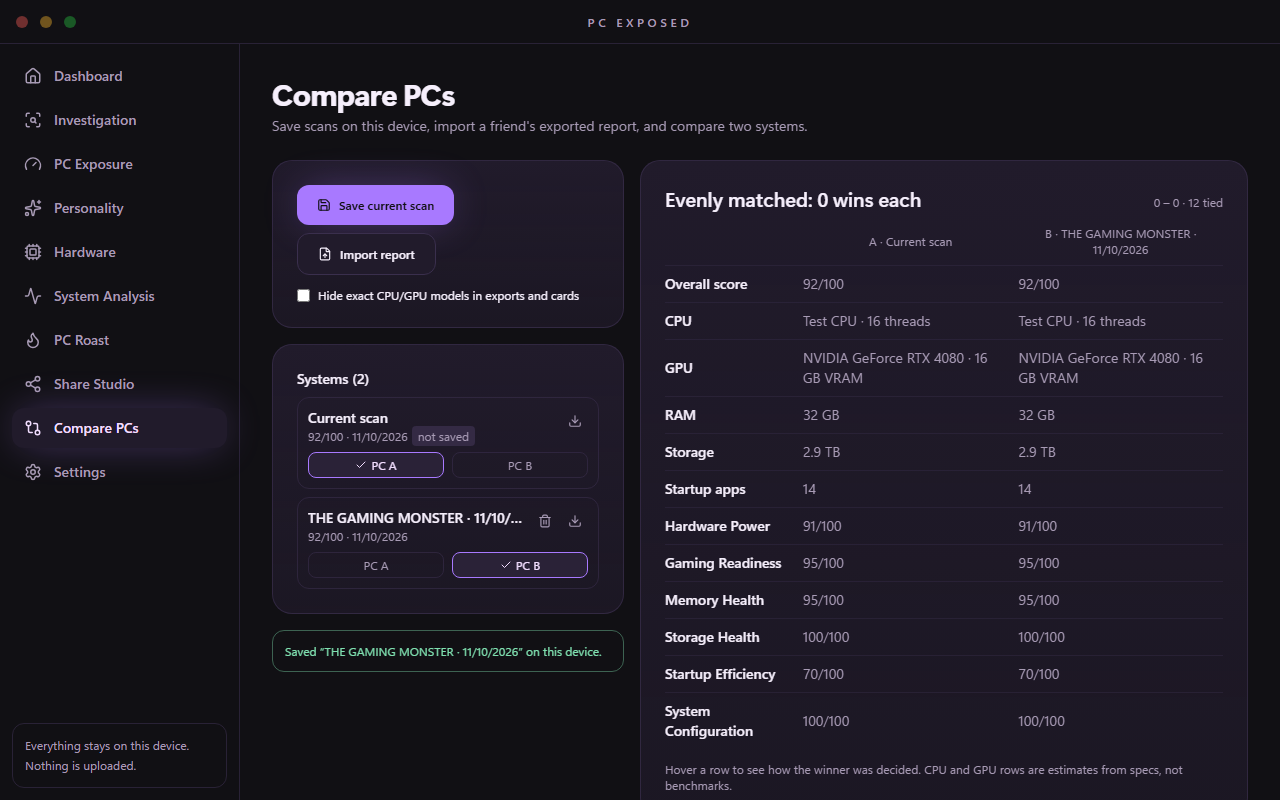
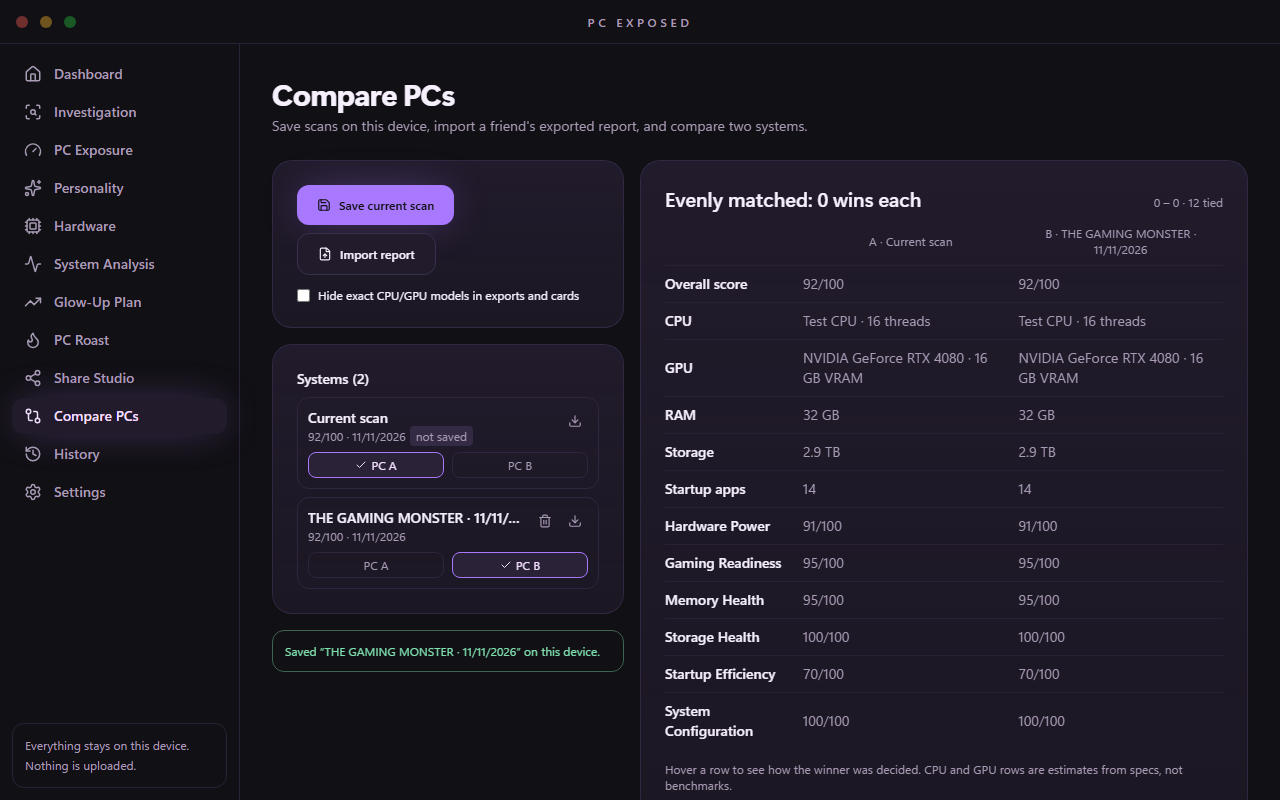
Release v0.2.0-beta.1: version, changelog, release notes, screenshots
- Version 0.2.0-beta.1 in package.json, Cargo.toml/lock, tauri.conf.json.
- CHANGELOG, docs/releases/v0.2.0-beta.1.md, README, PRIVACY (scan history),
  ARCHITECTURE, RELEASING, SECURITY_REVIEW delta.
- Screenshots regenerated from synthetic demo data, plus the update gallery
  in docs/screenshots/updates/v0.2.0-beta.1/.

diff --git a/src-tauri/src/app_info.rs b/src-tauri/src/app_info.rs
@@ -35,7 +35,7 @@ mod tests {
     fn reports_package_version() {
         let info = build_app_info();
         assert_eq!(info.name, "PC EXPOSED");
-        assert_eq!(info.version, "0.1.0-beta.1");
+        assert_eq!(info.version, "0.2.0-beta.1");
         assert_eq!(info.license, "MIT");
     }
 

diff --git a/README.md b/README.md
@@ -6,7 +6,9 @@ PC EXPOSED is a free, open-source Windows desktop app. It investigates your PC *
 scores it with explainable, evidence-based rules, gives it a personality, writes a roast based on what it
 really found, and exports share-ready image cards. Nothing is uploaded. Ever.
 
-> **Beta (`v0.1.0-beta.1`).** Everything below works and is tested, but see [Known limitations](#known-limitations).
+> **Beta (`v0.2.0-beta.1`).** Everything below works and is tested, but see [Known limitations](#known-limitations).
+> New in this release: the **Glow-Up Plan**, opt-in **scan history**, and **Copy specs**
+> ([release notes](docs/releases/v0.2.0-beta.1.md)).
 
 ![Dashboard with last-scan summary](docs/screenshots/01-dashboard.png)
 
@@ -20,10 +22,20 @@ really found, and exports share-ready image cards. Nothing is uploaded. Ever.
 | 📊 **Scores honestly** | Six 0–100 scores (Hardware, Memory, Storage, Startup, Configuration, Gaming Readiness), each with reasons, a confidence level and a caveat. Missing data is *Unavailable*, never zero. |
 | 🧭 **Separates evidence** | Bottleneck findings are kept apart as *measured*, *potential*, *hardware pairing* and *insufficient evidence*. It never claims a benchmark it didn't run. |
 | 🎭 **Assigns a personality** | 12 personalities (THE GAMING MONSTER, THE SLEEPING GIANT, THE CHAOS ENGINE…) chosen from real findings, with the rule shown. |
+| 📈 **Glow-Up Plan** | Concrete fixes and upgrades ranked by how many points they would add, with steps. Projections re-run the same scoring rules, so they never disagree with your score. |
 | 🔥 **Roasts your PC** | 101 original, conditional lines. A Discord joke only appears if Discord really starts with Windows. No repeats. |
 | 🎁 **PC Wrapped** | A story-style recap of your PC. |
 | 🖼 **Share cards** | 5 templates × 2 sizes (1080×1350, 1920×1080), live preview, **Privacy mode**, optional watermark, saved by you. |
 | ⚖ **Compare PCs** | Save scans locally, import a friend's exported report, compare two systems, export a comparison card. |
+| 🕒 **History** (opt-in) | Off by default. When on, keeps a summary of each scan on this device and charts your score over time. |
+| 📋 **Copy specs** | A plain-text spec sheet for forum posts and "what should I upgrade?" threads. |
+
+### Glow-Up Plan and History
+
+<p>
+  <img src="docs/screenshots/10-glow-up-plan.png" width="49%" alt="Glow-Up Plan for a struggling laptop: free fixes and upgrades with projected scores">
+  <img src="docs/screenshots/11-history.png" width="49%" alt="Scan history with a score-over-time chart and changes between scans">
+</p>
 
 <p>
   <img src="docs/screenshots/02-results.png" width="49%" alt="Results with score ring and radar chart">
@@ -55,6 +67,7 @@ really found, and exports share-ready image cards. Nothing is uploaded. Ever.
 - The interface can do nothing but move and close the window. Saving a file goes through a validated native
   command, and **you** pick where it is written.
 - Imported report files are treated as hostile: validated against a whitelist, size- and range-limited, never executed.
+- Scan history is **off by default**; when on, it keeps only the report summary (no app or process names).
 - Delete everything it stores in **Settings → Local data**.
 
 Read exactly what a scan reads (and never reads) in [docs/PRIVACY.md](docs/PRIVACY.md), and the evidence behind
@@ -89,8 +102,9 @@ npm run tauri dev        # desktop app with hot reload
 npm run tauri build      # optimized app + installer in src-tauri/target/release/
 ```
 
-The browser-only preview (`npm run dev`, then add `?demo=1` to the URL) loads clearly labelled synthetic data;
-real scans need the desktop app.
+The browser-only preview (`npm run dev`, then add `?demo=1` to the URL, or `?demo=budget` for a struggling
+laptop) loads clearly labelled synthetic data; real scans need the desktop app. Regenerate the README
+screenshots and the per-release gallery in `docs/screenshots/updates/` with `$env:SCREENSHOTS=1; npm run screenshots`.
 
 ### Tests
 
@@ -124,7 +138,8 @@ clipping, truncation and overlap. See [docs/ARCHITECTURE.md](docs/ARCHITECTURE.m
 - Laptops, HDD systems and Windows 10 are covered by tests and fixtures but have had little real-hardware testing:
   please [open an issue](../../issues/new/choose) if a reading looks wrong.
 - Not yet tested with a real screen reader (NVDA/Narrator) or Windows High Contrast mode.
-- The app icon is a placeholder.
+- Glow-Up Plan projections show how the *score* would move, not frame rates or boot times. The Windows 11
+  suggestion does not check eligibility.
 - No MSI installer yet (the format rejects pre-release versions); the NSIS installer is provided.
 
 ## Contributing

diff --git a/docs/releases/v0.2.0-beta.1.md b/docs/releases/v0.2.0-beta.1.md
@@ -1,0 +1,98 @@
+# PC EXPOSED v0.2.0-beta.1
+
+**From "here's what's wrong" to "here's what to do about it."**
+
+v0.1 told you your PC's score, personality and sins. v0.2 tells you which changes would actually raise that
+score and by how much, and (if you turn it on) shows whether they worked.
+
+![Glow-Up Plan for a struggling laptop (synthetic demo data)](../screenshots/updates/v0.2.0-beta.1/glow-up-plan.png)
+
+*All screenshots use clearly labelled synthetic demo data, not a real machine.*
+
+## What's new
+
+### Glow-Up Plan
+
+A new screen that ranks concrete changes by how many points they would add to your score:
+
+- **Free fixes:** trim startup apps (it lists the ones it found), free a specific amount of space on the
+  system drive, restart after weeks of uptime, close memory-heavy apps, uninstall apps you don't use.
+- **Upgrades:** the next RAM size, moving Windows to an SSD, Windows 11, a GPU one class up.
+
+Every card shows the projected overall score, which categories move (e.g. *Startup Efficiency 30 → 100*),
+how to do it in plain steps, and its limits. The header shows where *all free fixes together* and
+*everything together* would land you.
+
+**Why you can trust the numbers:** a projection isn't a separate set of guesses. It takes your measured
+numbers, changes one thing (say, 26 startup apps → 5) and runs the **same scoring rules** again. Projections
+show how the score would move, not frame rates or boot times, and the app says so.
+
+Open it from the sidebar, from the Dashboard, or from the hint on **PC Exposure**.
+
+### Scan history (opt-in)
+
+Turn it on from the Dashboard, the History screen or *Settings → Local data*. Each real scan is then kept
+as a small summary (the same summary as an exported report: hardware classes and scores, **no app, process
+or startup-app names**), up to 60.
+
+- A score-over-time chart, and per-scan changes in score, startup apps, free space, RAM, installed apps and personality.
+- The Dashboard shows *"Up 6 since your scan on 2 Oct"* and, after you restart the app, your last recorded scan.
+- Delete a single scan, all history, or everything the app stores.
+
+It is **off by default**, so v0.1's promise holds: nothing about a scan is stored until you choose.
+
+![History timeline (synthetic demo data)](../screenshots/updates/v0.2.0-beta.1/history-timeline.png)
+
+### Copy specs
+
+**Hardware → Copy specs** puts a plain-text spec sheet on your clipboard, ready for a forum post or a
+"what should I upgrade?" thread. [Example](../screenshots/updates/v0.2.0-beta.1/spec-sheet-example.txt):
+
+```
+CPU: Test CPU (8C/16T, 4.00 GHz)
+GPU: NVIDIA GeForce RTX 4080 (16 GB)
+RAM: 32 GB
+Storage: C: 1000 GB SSD (42% free), D: 2.0 TB SSD (45% free)
+OS: Windows 11 Pro 24H2 (build 26100.1)
+Form factor: desktop (no battery)
+```
+
+### A real icon
+
+The placeholder "!" is replaced by the PC EXPOSED eye.
+
+## Fixes
+
+- Exported reports always said `appVersion: 0.1.0-beta.1`; the version is now injected from the build.
+- Saved reports are dated by when the scan ran, and the same scan can't be saved twice.
+- Laptop integrated GPUs like **Radeon 890M / 780M** and **Intel Arc 140V / 130T** are now recognized, so
+  those PCs get Hardware Power and Gaming Readiness scores instead of "not recognized".
+- PC Wrapped no longer double-advances when you press Space on a button.
+- Compare PCs: a rejected import can be retried with the same file.
+- Share Studio: fast template switching can no longer leave a stale card in the preview.
+- The installed app ignores F5/Ctrl+R (which threw away your scan) and the browser right-click menu.
+- No more stray focus box around screen titles.
+
+## Upgrading
+
+Install over v0.1.0-beta.1. Saved reports, settings and card preferences are kept, and the report file
+format is unchanged (still version 1), so reports exported by either version import into the other.
+
+## Verify your download
+
+Download `PC.EXPOSED_0.2.0-beta.1_x64-setup.exe` and `SHA256SUMS.txt`, then:
+
+```powershell
+Get-FileHash .\PC.EXPOSED_0.2.0-beta.1_x64-setup.exe -Algorithm SHA256
+```
+
+The installer is per-user (no administrator rights) and **not code-signed yet**, so SmartScreen may warn.
+
+## Known limitations
+
+- Glow-Up Plan projections are score projections, not performance predictions. The Windows 11 suggestion
+  does not check eligibility (TPM 2.0, supported CPU).
+- GPU utilization/temperature and SMART drive health are still not read.
+- English only; Windows 10/11 x64 only; installers unsigned; no MSI for pre-releases.
+
+Full list of changes: `CHANGELOG.md`.

diff --git a/CHANGELOG.md b/CHANGELOG.md
@@ -3,7 +3,56 @@
 All notable changes are documented here. The format follows [Keep a Changelog](https://keepachangelog.com/en/1.1.0/)
 and the project uses [Semantic Versioning](https://semver.org/).
 
-## [0.1.0-beta.1]: unreleased
+## [0.2.0-beta.1]: 2026-11-11
+
+PC EXPOSED now tells you what to do about what it finds, and can show your PC improving over time.
+Release notes: [docs/releases/v0.2.0-beta.1.md](docs/releases/v0.2.0-beta.1.md).
+
+### Added
+- **Glow-Up Plan** (new screen): concrete changes ranked by how much they would raise your score, split into
+  *free fixes* (trim startup apps, free system-drive space, restart, close memory-heavy apps, uninstall unused
+  apps) and *upgrades* (RAM, SSD, Windows 11, a GPU one class up). Each shows the projected overall and
+  per-category scores, how to do it, and its limits. Projections re-run the real scoring rules on the changed
+  numbers, so they can never disagree with the score. Shows combined "all free fixes" and "everything" totals.
+  PC Exposure links to it when free fixes would help.
+- **Scan history** (new screen, opt-in, off by default): keeps a summary of each real scan on this device
+  (up to 60) with a score-over-time chart and what changed between scans (score, startup apps, free space,
+  RAM, apps, personality). Delete one scan or all of it. The Dashboard shows "Up N since your scan on …" and,
+  after a restart, your last recorded scan.
+- **Copy specs** on the Hardware screen: a plain-text spec sheet (CPU, GPU, RAM, storage, Windows, form factor)
+  ready to paste into a forum or chat. No app, process or network names.
+- New app icon (the PC EXPOSED eye), replacing the placeholder.
+
+### Fixed
+- Exported and saved reports recorded the version as `0.1.0-beta.1` forever; the version now comes from
+  `package.json` at build time.
+- Saved reports were dated by when you clicked *Save*, not when the scan ran, and saving the same scan twice
+  created duplicates.
+- PC Wrapped: pressing Space on a focused button both activated it and advanced the slide.
+- Compare PCs: after a rejected import, choosing the same (fixed) file again did nothing.
+- Share Studio: switching templates quickly could leave an older template painted on the preview.
+- Laptop integrated GPUs such as *AMD Radeon(TM) 890M Graphics* and *Intel(R) Arc(TM) 140V GPU* were
+  "not recognized", so Hardware Power and Gaming Readiness went unscored on those machines.
+- Duplicate list keys when two adapters or processes shared a name.
+- Every screen title showed a stray focus box after navigation.
+- In the installed app, F5 / Ctrl+R reloaded the window and silently discarded the scan, and the browser's
+  context menu (Back, Refresh, Print) appeared on right-click. Text fields keep their menu.
+
+### Changed
+- The sidebar is slightly more compact to fit 12 screens at the 1000×680 minimum window size; its privacy note
+  hides on very short windows (the same promise is on the Dashboard and in Settings).
+- Settings → Local data has the scan-history switch, and "Reset all local data" also deletes scan history.
+
+### Security & privacy
+- Scan history is opt-in and stores only the documented report summary (no startup-app, process or
+  installed-app names); every entry is re-validated on read. Still no network code, and the CSP and webview
+  permissions are unchanged.
+
+### Known limitations
+- Unchanged from 0.1.0-beta.1 (see below). Glow-Up Plan projections are score projections, not performance
+  predictions, and the Windows 11 suggestion does not check eligibility.
+
+## [0.1.0-beta.1]: 2026-11-09 (tagged; its GitHub release was left as a draft)
 
 First public beta.
 

diff --git a/docs/PRIVACY.md b/docs/PRIVACY.md
@@ -1,6 +1,6 @@
 # Privacy policy
 
-*Applies to PC EXPOSED v0.1.0-beta.1. Plain-language summary first, details below.*
+*Applies to PC EXPOSED v0.2.0-beta.1. Plain-language summary first, details below.*
 
 **PC EXPOSED investigates your PC on your PC. It never sends anything anywhere.**
 
@@ -8,7 +8,7 @@
 
 - No account. No telemetry. No analytics. No crash reporting. No automatic updates.
 - The app contains **no network-request code**. Its Content Security Policy blocks all external connections.
-- Scan results stay in memory until you save a report or export something.
+- Scan results stay in memory until you save a report, export something, or turn on scan history.
 - Anything leaving your device does so only because **you** chose a destination (a PNG or JSON file) and shared it yourself.
 - You can delete everything the app stores, at any time, in Settings → Local data.
 
@@ -42,6 +42,9 @@ Stored only in this app's own data folder, `%LOCALAPPDATA%\dev.pcexposed.desktop
 
 - **Saved reports** you chose to keep (a small summary: hardware classes and scores; no process
   or startup-app names). Up to 50.
+- **Scan history**, only if you turn it on (it is **off by default**): a summary of each real scan,
+  identical in content to a saved report (hardware classes and scores; no process, startup-app or
+  installed-app names). Up to 60, oldest dropped first. Delete one or all on the History screen.
 - **Roast history** (ids of roast lines already shown, to avoid repeats).
 - **Preferences**: animation setting, language, share-card options (including a username you typed).
 
@@ -54,6 +57,8 @@ Settings → Local data → Reset all local data *before* uninstalling, or delet
 
 - **PNG share cards.** Optional *Privacy mode* hides your username, exact CPU/GPU models, app
   names and drive letters. Cards made from demo data are labelled as such.
+- **Spec sheet (clipboard).** *Hardware → Copy specs* copies CPU, GPU, RAM, drive letters with sizes and
+  free space, Windows version and whether a battery is present. No app, process or network names.
 - **Report files (.json).** A summary as described in `docs/report-format.md`. The optional
   "Hide exact CPU/GPU models" setting replaces exact model names with generic classes.
 

diff --git a/docs/ARCHITECTURE.md b/docs/ARCHITECTURE.md
@@ -18,7 +18,9 @@ src/
     personality.ts             12 personalities with explicit rules
     roast*.ts                  101 conditional roast lines + seeded selection
     wrapped.ts                 PC Wrapped data
-  reports/                     report format v1, validator, local store, comparison
+    advice.ts                  Glow-Up Plan: what-if actions re-scored with scoreFacts()
+  reports/                     report format v1, validator, local store, comparison,
+                               opt-in scan history (history.ts)
   share/                       canvas card renderer (painter, templates, compare card)
   i18n/                        message catalog, locale registry, plurals, RTL
   lib/                         typed Tauri bridge, settings, formatting, updates, contrast
@@ -31,6 +33,16 @@ docs/                          report format, security review, localization, acc
 `run_scan` (Rust, background thread per collector) → `ScanReport` JSON (typed, versioned,
 every metric a `Reading<T>` = available | unavailable-with-reason) → `analyze()` →
 `Analysis` → screens, share cards, Wrapped, saved/exported `ReportV1` summaries.
+
+Glow-Up Plan: `buildPlan(facts)` builds candidate actions, each a pure `Facts → Facts` change, and re-runs
+`scoreFacts()` (the same function `analyze()` uses) on the changed facts. A projection therefore cannot drift
+from the real scoring rules; a test asserts it for every action.
+
+Scan history (opt-in, `Settings.keepHistory`): after a real (non-demo) scan, `state.tsx` stores
+`buildReport(analysis, { now: scannedAtMs })` in `historyStore`, one entry per scan time, re-validated on
+every read with the same validator as imported files.
+
+The app version has one source: `package.json`, injected by Vite as `__APP_VERSION__` (`src/lib/version.ts`).
 
 ## Principles
 

diff --git a/docs/SECURITY_REVIEW.md b/docs/SECURITY_REVIEW.md
@@ -73,3 +73,19 @@ frozen). It was removed. Prototype pollution is instead addressed at the data bo
 - **Not independently audited**; no fuzzing of the Rust collectors beyond unit/integration tests.
 - **Installers are unsigned** until Checkpoint H/release; Windows SmartScreen will warn.
 - **WebView2 runtime** is a system component; its own security updates come from Windows/Edge.
+
+## v0.2.0-beta.1 delta review
+
+What changed in the attack surface, and why it is acceptable:
+
+- **No new permissions, commands or network code.** The CSP, `capabilities/default.json` and the Rust command
+  list are unchanged (guarded by `src/app/release.test.ts`); the static no-network scan covers the new files.
+- **New stored data: scan history** (`pc-exposed.history.v1`). Opt-in, off by default. It stores the same
+  `ReportV1` summary as a saved report (no process, startup-app or installed-app names; asserted by
+  `src/reports/history.test.ts`), capped at 60, and every entry is re-validated on read with the import
+  validator, so tampered storage is dropped rather than trusted. "Reset all local data" deletes it.
+- **Clipboard write (Copy specs).** User-initiated only; contains hardware facts and drive letters, no names
+  of apps, processes or adapters' addresses.
+- **Webview hardening.** In the installed app, reload shortcuts and the browser context menu are suppressed
+  (they could discard state and expose browser-only actions such as Print). Text fields keep their menu.
+- **Dependencies:** none added. `npm audit --omit=dev` and `cargo audit` results are recorded in the release PR.

diff --git a/docs/RELEASING.md b/docs/RELEASING.md
@@ -24,6 +24,8 @@ Pre-release versions (anything with a `-`) are marked *pre-release* on GitHub au
    - `src-tauri/Cargo.toml` → `version` (then run `cargo check` so `Cargo.lock` follows)
    - `src-tauri/tauri.conf.json` → `version`
 2. **Update `CHANGELOG.md`**: rename `unreleased` to the release date and make sure it describes the changes.
+   Write `docs/releases/v<version>.md` (the GitHub release notes; a test requires it), and regenerate
+   screenshots into `docs/screenshots/updates/v<version>/` with `$env:SCREENSHOTS=1; npm run screenshots`.
 3. **Regenerate third-party licenses** if dependencies changed: `node scripts/generate-licenses.mjs`.
 4. **Run the full local checks** (`npm run typecheck`, `npm test`, `npm run test:e2e`, `cargo fmt --check`,
    `cargo clippy --all-targets -- -D warnings`, `cargo test`) and a local `npx tauri build`.
@@ -33,7 +35,7 @@ Pre-release versions (anything with a `-`) are marked *pre-release* on GitHub au
 8. The *Release* workflow verifies the tag equals the app version, runs the tests, builds the Windows x64
    installer (NSIS `.exe`), computes `SHA256SUMS.txt`, and attaches everything to a **draft** release.
 9. **Review the draft**: download the installer on a clean Windows machine/VM, check install, launch, a real
-   scan, saving a card, uninstall. Edit the release notes (copy from the changelog).
+   scan, saving a card, uninstall. Set the notes: `gh release edit v<version> --notes-file docs/releases/v<version>.md`.
 10. **Publish** the draft yourself.
 
 ## Verifying a build locally
